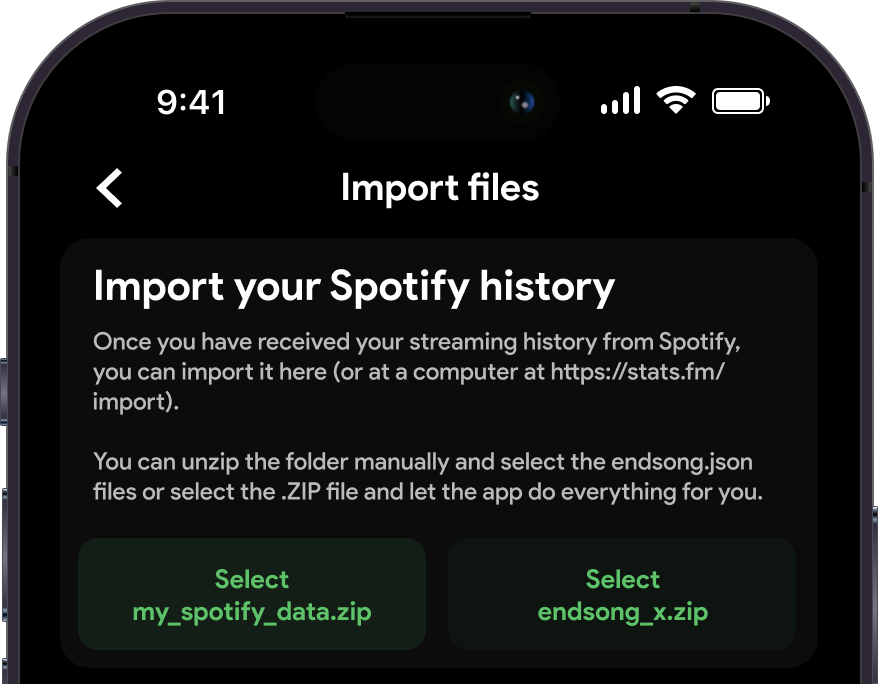
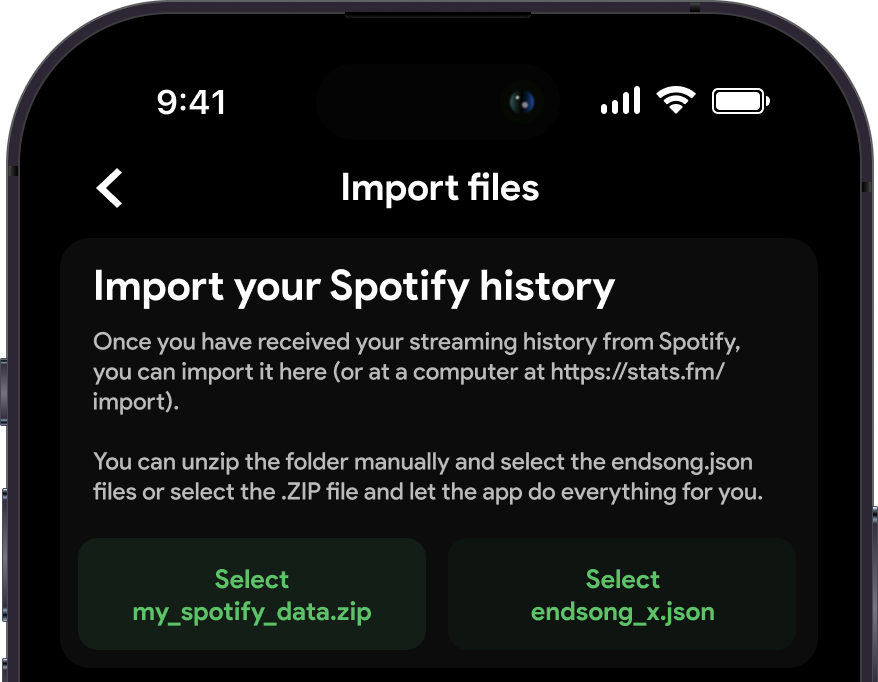
whoopsies

diff --git a/src/components/ImportGuide/Importing/AppImport.tsx b/src/components/ImportGuide/Importing/AppImport.tsx
@@ -10,7 +10,7 @@ export default function AppImport(): JSX.Element {
           <Translate id="importguide.appimport.onlyoneendsongfile">
             stats.fm also offers you to import your files directly via the app.
             Compared to the web import it also allows you to import the entire
-            .zip folder with all the relevant files automatically instead of a
+            .zip file with all the relevant files automatically instead of a
             manual file-by-file upload.
           </Translate>
         </p>
